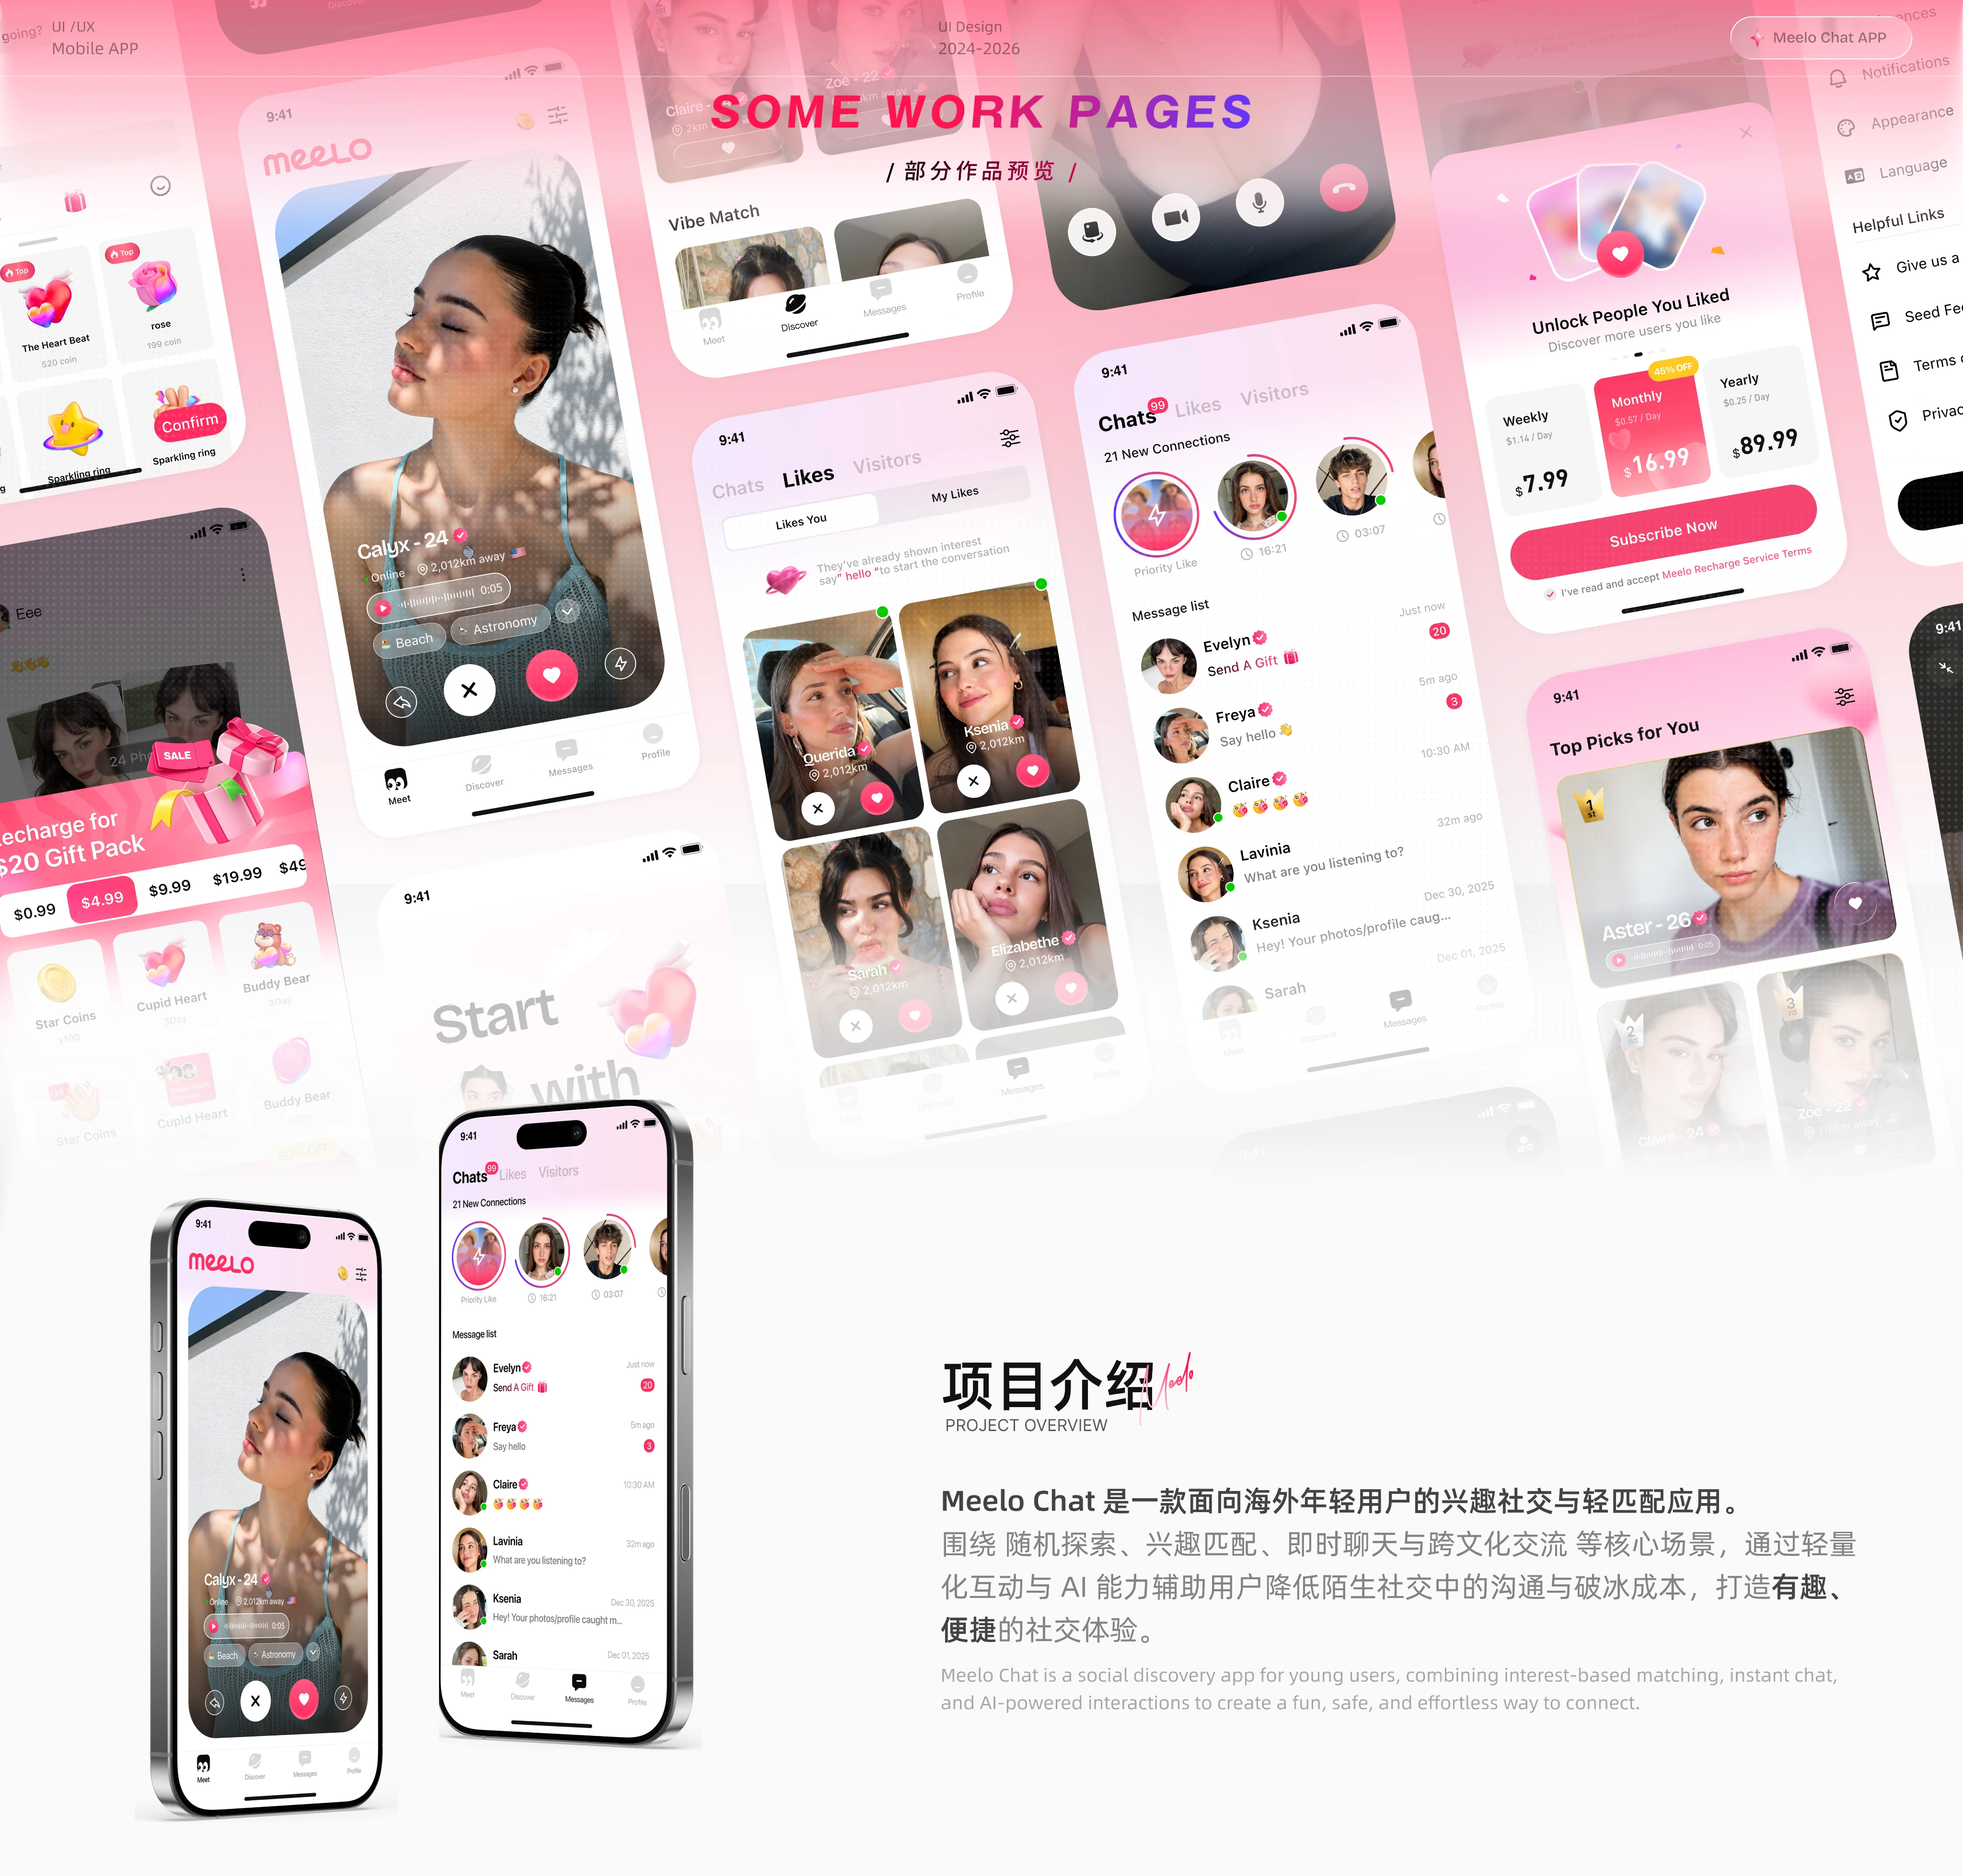
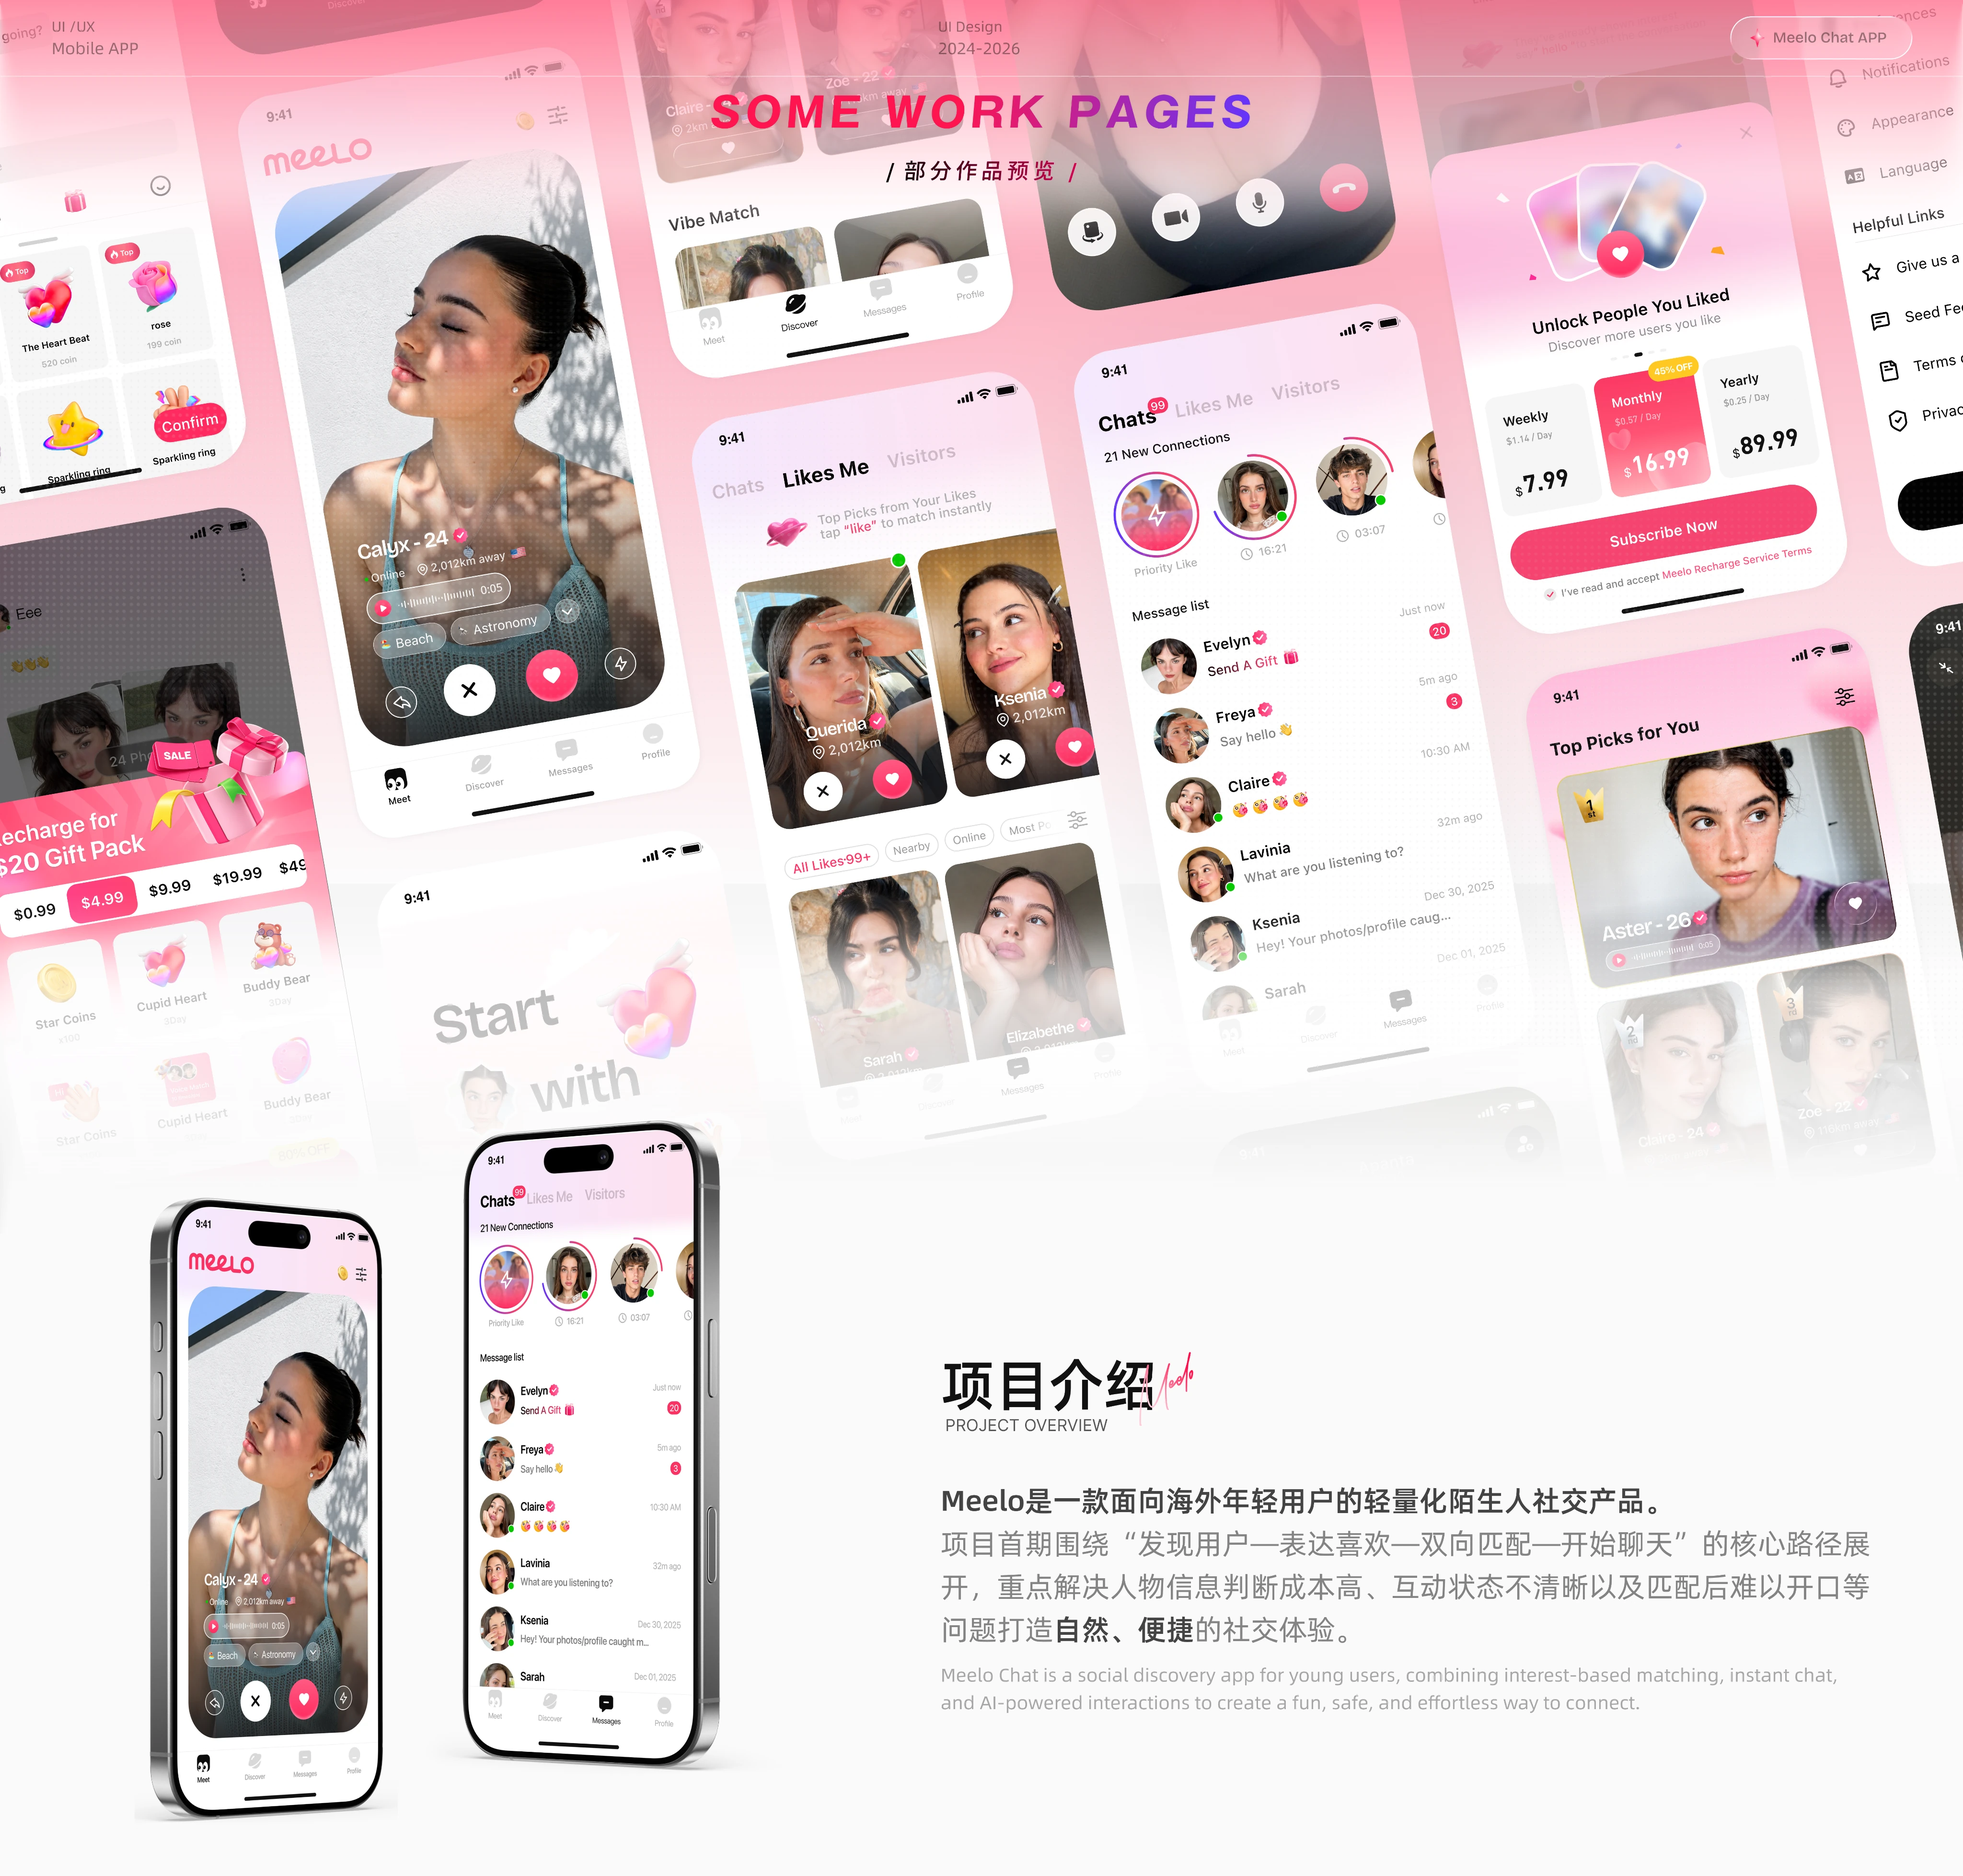
Refresh Meelo portfolio from Figma

Changed region(s): [[0.375, 0.2494, 0.5938, 0.5924], [0.2188, 0.5612, 0.375, 0.9665], [0.4688, 0.7795, 0.9688, 0.873]]

diff --git a/content/showcases.ts b/content/showcases.ts
@@ -9,7 +9,7 @@ export type Showcase = {
   detailImages?: string[];
 };
 
-const creativeVisualDetailVersion = "20260910-figma";
+const creativeVisualDetailVersion = "20260911-figma";
 const creativeVisualDetailImages = Array.from(
   { length: 20 },
   (_, index) => `/images/portfolio/creative-visuals/${String(index + 1).padStart(2, "0")}.webp?v=${creativeVisualDetailVersion}`,
